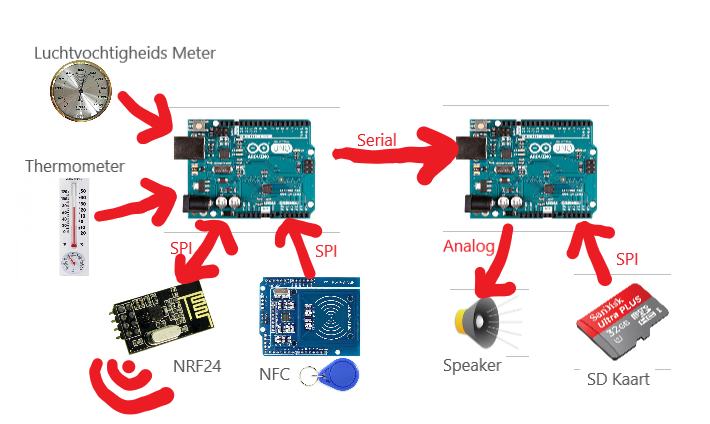
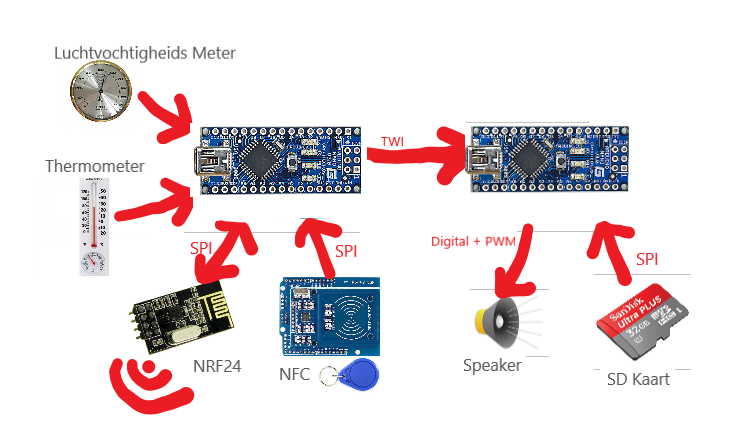
archituur feedabck verwerkt

Changed region(s): [[0.031, 0.092, 0.9606, 0.9811]]

diff --git a/documentatie/architectuur/readme.md b/documentatie/architectuur/readme.md
@@ -3,32 +3,32 @@ In onderstaande afbeelding is een globale schets van de architectuur weergegeven
 
 ![Architectuur](architectuur.png)
 
-De poten zullen communiceren met de twee backends van de twee groepen via een gateway. Deze gateway bestaat uit een Arduino en een Raspberry Pi. De Arduino zal communiceren via NRF met de poten en alle informatie doorsturen naar de Raspberry Pi. De Pi zal via HTTP/JSON communiceren met de backend's. De Pi kan op zijn beurt weer de Arduino binnen de gateawy aansturen om zo informatie bij de poten te krijgen.
+De poten zullen communiceren met de twee backends van de twee groepen via een gateway. Deze gateway bestaat uit een Arduino en een Raspberry Pi. De Arduino zal draadloos communiceren via NRF24 chips met de poten en alle informatie doorsturen naar de Raspberry Pi. De Pi zal via HTTP/JSON communiceren met de backend's. De Pi kan op zijn beurt weer de Arduino binnen de gateway aansturen om zo informatie bij de poten te krijgen.
 
-De gebruikers zullen werken met een van de twee client-applicaties: de Ranger App voor de rangers en de Admin App voor de administratoren. Deze twee applicaties draaien in de browser en zullen via HTTP/JSON communiceren met de Backend's.
+De gebruikers zullen werken met een van de twee client-applicaties: de Ranger App voor de rangers en de Admin App voor de administratoren. Deze twee applicaties draaien in de browser en zullen via HTTP/JSON communiceren met de Backends.
 
 De architectuur van de poot is in onderstaande afbeelding in meer detail te zien.
 
 ![Architectuur Poot](architectuur-poot.png)
 
-De poot bestaat uit twee Arduino's. Er is één Arduino die volledig gaat over het afspelen van audio. In een later stadium zou deze Arduino ook verantwoordelijk worden voor het opslaan van nieuw ontvangde audiobestanden. De Audio Arduino wordt aangestuurd door de Master Arduino.
+De poot bestaat uit twee Arduino's. Er is één Arduino die volledig gaat over het afspelen van audio. In een later stadium zou deze Arduino ook verantwoordelijk worden voor het opslaan van nieuw ontvangen audiobestanden. De Audio Arduino wordt aangestuurd door de Master Arduino.
 
-De Master Arduino is verantwoordeling voor alle primaire functionaliteiten en het aansturen van de Audio ARduino. Zo zal de master arduino een NFC scanner hebben om passen te detecteren. Ook zal deze Master Arduino de temperatuur en luchtvochtigheid meten. De Master Arduino staat via de NRF24 chip in verbinding met de gateawy en zal zo de gateway op de hoogte houden over welke passen zijn langsgeweest. 
+De Master Arduino is verantwoordelijk voor alle primaire functionaliteiten en het aansturen van de Audio Arduino. Zo zal de master Arduino een NFC-scanner hebben om passen te detecteren. Ook zal deze Master Arduino de temperatuur en luchtvochtigheid meten. De Master Arduino staat via de NRF24 chip in verbinding met de gateway en zal zo de gateway op de hoogte houden over welke passen zijn langs geweest. 
 
 ## Keuzes
-Tijdens het opstellen van de architectuur zijn verschilende keuzes gemaakt. Hieronder zijn de belangrijkste ASR's met argumentatie te vinden.
+Tijdens het opstellen van de architectuur zijn verschillende keuzes gemaakt. Hieronder zijn de belangrijkste keuzes met argumentatie te lezen.
 
 #### Gebruik gateway voor communicatie tussen poten en backend
-Het stond vast dat er een backend zou komen voor het opsalg van de bezoekersgegevens en monitoringsgegevens. Hoe gaat deze backend communiceren met de poten in het park? De poten zouden via NRF's gaan communiceren. Er moet dus een aparaat zijn dat de NRF's kan begrijpen én die de HTTP-taal van de backend kan begrijpen. De oplossing hiervoor is een gateway die verbind met de poten via NRF's en met de backend communiceert via HTTP. Ook zorgt de gateway ervoor dat de backend niet fisiek in het park hoeft te zijn. Met een gateway kunnen de poten communiceren met de backend die in de 'cloud' draait. 
+Het stond vast dat er een backend zou komen voor het opslag van de bezoekersgegevens en monitoringsgegevens. Hoe gaat deze backend communiceren met de poten in het park? De poten zouden via draadloos via NRF24 chips gaan communiceren. Er moet dus een apparaat zijn dat de NRF24 chips kan begrijpen én die de HTTP-taal van de backend kan begrijpen. De oplossing hiervoor is een gateway die verbind met de poten met NRF24 chips en met de backend communiceert via HTTP. Ook zorgt de gateway ervoor dat de backend niet fysiek in het park hoeft te zijn. Met een gateway kunnen de poten communiceren met de backend die in de 'cloud' draait. 
 
 #### Gateway bestaande uit een Arduino + Raspberry Pi
-Er is geprobeerd een NRF24 chip aan te sluiten op een Raspberry Pi. In [dit](https://github.com/HANICA-MinorMulti/nj2017-iot-dwa-BurgersZoo1/blob/master/documentatie/onderzoeken/oplossingsRichtingenGatewayTaal/onderzoeken.md) onderzoek is te lezen dat dit niet mogelijk is. Vandaar dat er gekozen is om een Arduino met NRF24 chip aan de Raspberry Pi via Seriele poort te koppelen. Zo kan op de Raspberry Pi gewerkt worden met het seriele protocool dat breed ondersteund wordt en kan op de Arduino de [MySensors gateway software](https://www.mysensors.org/build/serial_gateway) draaien. De MySensors code op de Arduino regelt op deze manier bijvoorbeelt ook de acknowledgements en hersturing van berichten.
+Er is geprobeerd een NRF24 chip aan te sluiten op een Raspberry Pi om draadloos te communseren met de poten. In [dit](https://github.com/HANICA-MinorMulti/nj2017-iot-dwa-BurgersZoo1/blob/master/documentatie/onderzoeken/oplossingsRichtingenGatewayTaal/onderzoeken.md) onderzoek is te lezen dat dit niet mogelijk is. Vandaar dat er gekozen is om een Arduino met NRF24 chip aan de Raspberry Pi via Seriële  poort te koppelen. Zo kan op de Raspberry Pi gewerkt worden met het Seriële  protocol dat breed ondersteund wordt en kan op de Arduino de [MySensors gateway software](https://www.mysensors.org/build/serial_gateway) draaien. De MySensors code op de Arduino regelt op deze manier bijvoorbeeld ook de acknowledgements en opnieuw versturen van berichten.
 
 #### Poot bestaande uit twee Arduino's
-In eerste instantie was er gekozen om de poot te maken [met 1 Arduino](https://github.com/HANICA-MinorMulti/nj2017-iot-dwa-BurgersZoo1/tree/docs/documentatie/onderzoeken/ArduinoVsRaspberry). De keuze was mede gebaseerd op het [onderzoek dat vertelde dat in theorie het mogelijk was om alle devices op de zelfde SPI bus aan te sluiten](https://github.com/HANICA-MinorMulti/nj2017-iot-dwa-BurgersZoo1/tree/docs/documentatie/onderzoeken/spi). Helaas is de praktijk anders. Na testen is gebleken dat het in praktijk niet werkt om NRF, NFC en SD allemaal op via SPI op de zelfde arduino aan te sluiten. Ook zou het niet mogelijk zijn om een Arduino te gebruiken als [MySensors repeater](https://www.mysensors.org/about/network) wanneer de arduino audio aan het afspelen is. Dit is niet praktisch, sinds repeateating functionaliteit nodig is in het grote park. Daarom is er gekozen om één Arduino te gebruiken om audio af te spelen, en een andere audio voor de communicatie.
+In eerste instantie was er gekozen om de poot te maken [met 1 Arduino](https://github.com/HANICA-MinorMulti/nj2017-iot-dwa-BurgersZoo1/tree/docs/documentatie/onderzoeken/ArduinoVsRaspberry). De keuze was mede gebaseerd op het [onderzoek dat vertelde dat in theorie het mogelijk was om alle aparaten op dezelfde SPI bus aan te sluiten](https://github.com/HANICA-MinorMulti/nj2017-iot-dwa-BurgersZoo1/tree/docs/documentatie/onderzoeken/spi). Helaas is de praktijk anders. Na testen is gebleken dat het in praktijk niet werkt om NRF, NFC en SD allemaal op via SPI op dezelfde Arduino aan te sluiten. Ook zou het niet mogelijk zijn om een Arduino te gebruiken als [MySensors repeater](https://www.mysensors.org/about/network) wanneer de Arduino audio aan het afspelen is. Dit is niet praktisch, sinds repeateating functionaliteit nodig is in het grote park. Daarom is er gekozen om één Arduino te gebruiken om audio af te spelen, en een andere audio voor de communicatie.
 
 #### Losstaande client-apps's
-Er is gekozen om de Ranger App en Admin App volledig los te maken van de backend. De client apps zullen beide met de zelfde rest api van de backend wekren. De keuze is hiervoor gemaakt omdat tijdens de lessen DWA dit pattern gebruikt is.
+Er is gekozen om de Ranger App en Admin App volledig los te maken van de backend. De client apps zullen beide met dezelfde rest api van de backend werken. De keuze is hiervoor gemaakt omdat tijdens de lessen DWA dit pattern gebruikt is.
 
 
 
